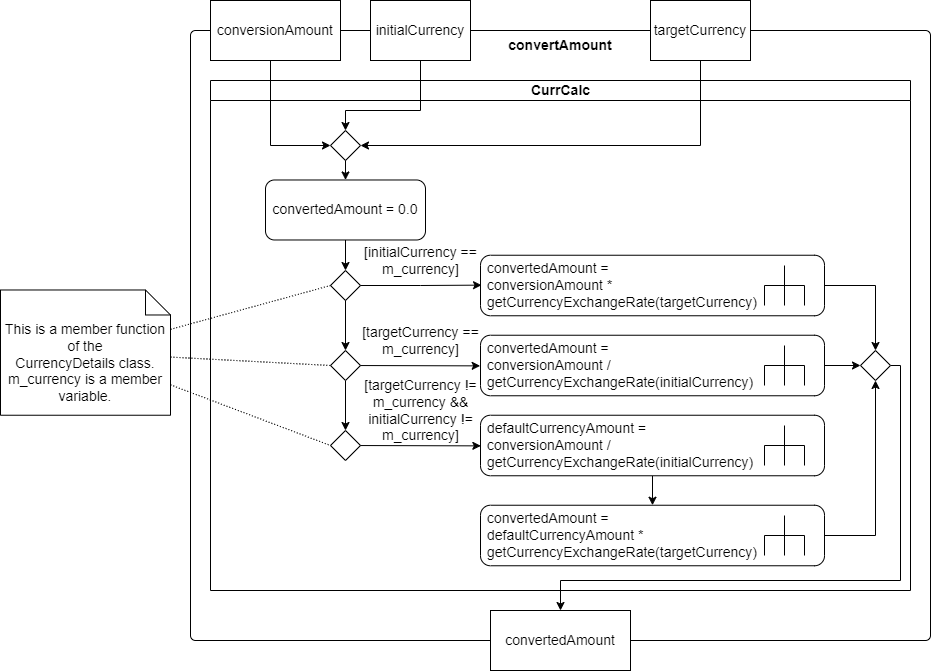
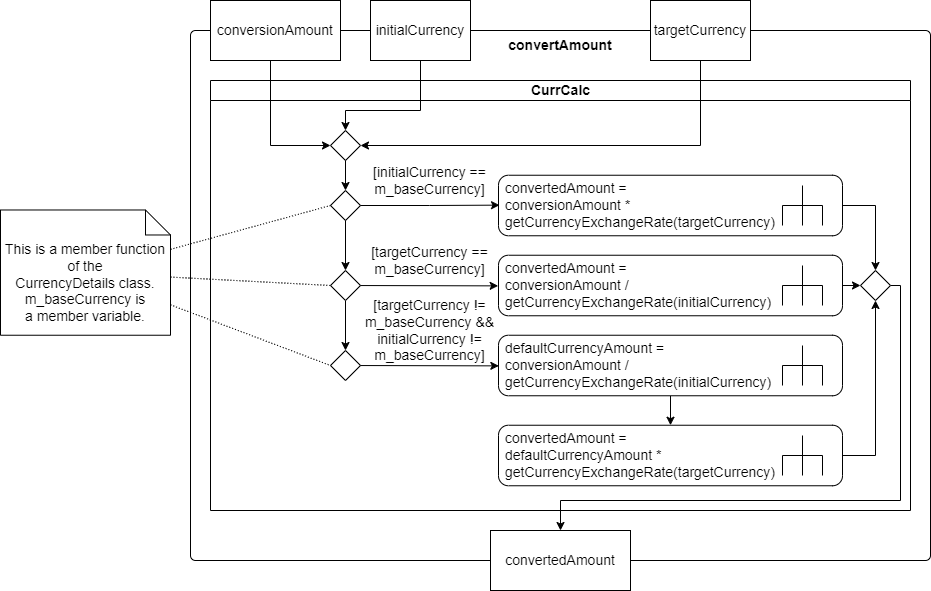
- Reworked activity diagram for convertAmount activity - Added description for getCurrencySelection activity - Added description for convertAmount activity

diff --git a/documentation/README.md b/documentation/README.md
@@ -220,7 +220,8 @@ MockCprWrapper just mocks the Get() method for testing purposes. This is why Cpr
 
 # Activity Diagrams
 
-These activity diagrams showcase the flow of CurrCalc on a technical level. Their target audience are therefore software engineers.
+These activity diagrams showcase some of CurrCalc's flow on a technical level. Their target audience are therefore software engineers.
+Not every activity in the program is modeled in a diagram, only the ones that are vital to understanding the overall flow.  
 
 ## Convert Currency
 
@@ -247,6 +248,20 @@ If the response's status code is 200 the response body is used to extract the de
 
 ![CurrCalc Activity Diagram for getCurrencySelection](./images/diagrams/06_CurrCalc_ActivityDiagram_getCurrencySelection.png "CurrCalc Activity Diagram for getCurrencySelection")
 
+The diagram for getCurrencySelection() describes the process in which a user selects a currency. It is referenced in the Convert Currency activity.<br/>
+The flow starts with the ```currencyList``` parameter being passed into the activity by the parent activity. This list is used to print the currencies in a numbered fashion for the user's convenience.<br/>
+The user is then prompted to select a currency by typing in its number. The selection is stored in ```selectedIndex```.<br/>
+If selectedIndex is not on the printed list the user is prompted again to select a currency from the list. If selectedIndex is on the list, it is used to get the currency from the list at that specific index which is then stored in ```selectedCurrency```.<br/>
+The selectedCurrency is then returned to the parent activity.
+
 ## convertAmount
 
 ![CurrCalc Activity Diagram for convertAmount](./images/diagrams/07_CurrCalc_ActivityDiagram_convertAmount.png "CurrCalc Activity Diagram for convertAmount")
+
+The convertAmount() diagram describes the actual currency conversion process. It is also referenced in the Convert Currency activity.<br/>
+The flow starts with the three parameters ```conversionAmount```, ```initialCurrency```, and ```targetCurrency``` being passed into the activity by the parent activity.<br/>
+After this, the conversion approach is determined. Since this activity is part of the ```CurrencyDetails``` class, it can access the ```m_baseCurrency``` property which represents the default currency. This is crucial because the flow depends on the API's default currency (currently EUR). Since a conversion can take place from any available currency three possible approaches must be considered.<br/>
+Option 1: initialCurrency is equal to m_baseCurrency. Since the exchange rates are based on the default currency, conversionAmount must simply be multiplied by the exchange rate for targetCurrency.<br/>
+Option 2: targetCurrency is equal to m_baseCurrency. In this case conversionAmount must be divided by the exchange rate for initialCurrency.<br/>
+Option 3: neither initialCurrency nor targetCurrency are equal to m_baseCurrency. In this case two steps are required. First, conversionAmount is converted to m_baseCurrency by dividing it by the exchange rate for initialCurrency. This is stored in ```defaultCurrencyAmount```. Second, defaultCurrencyAmount is converted to targetCurrency by multiplying it with the exchange rate for targetCurrency.<br/>
+In all of the above cases the result is stored in ```convertedAmount``` which is then returned to the parent activity.
